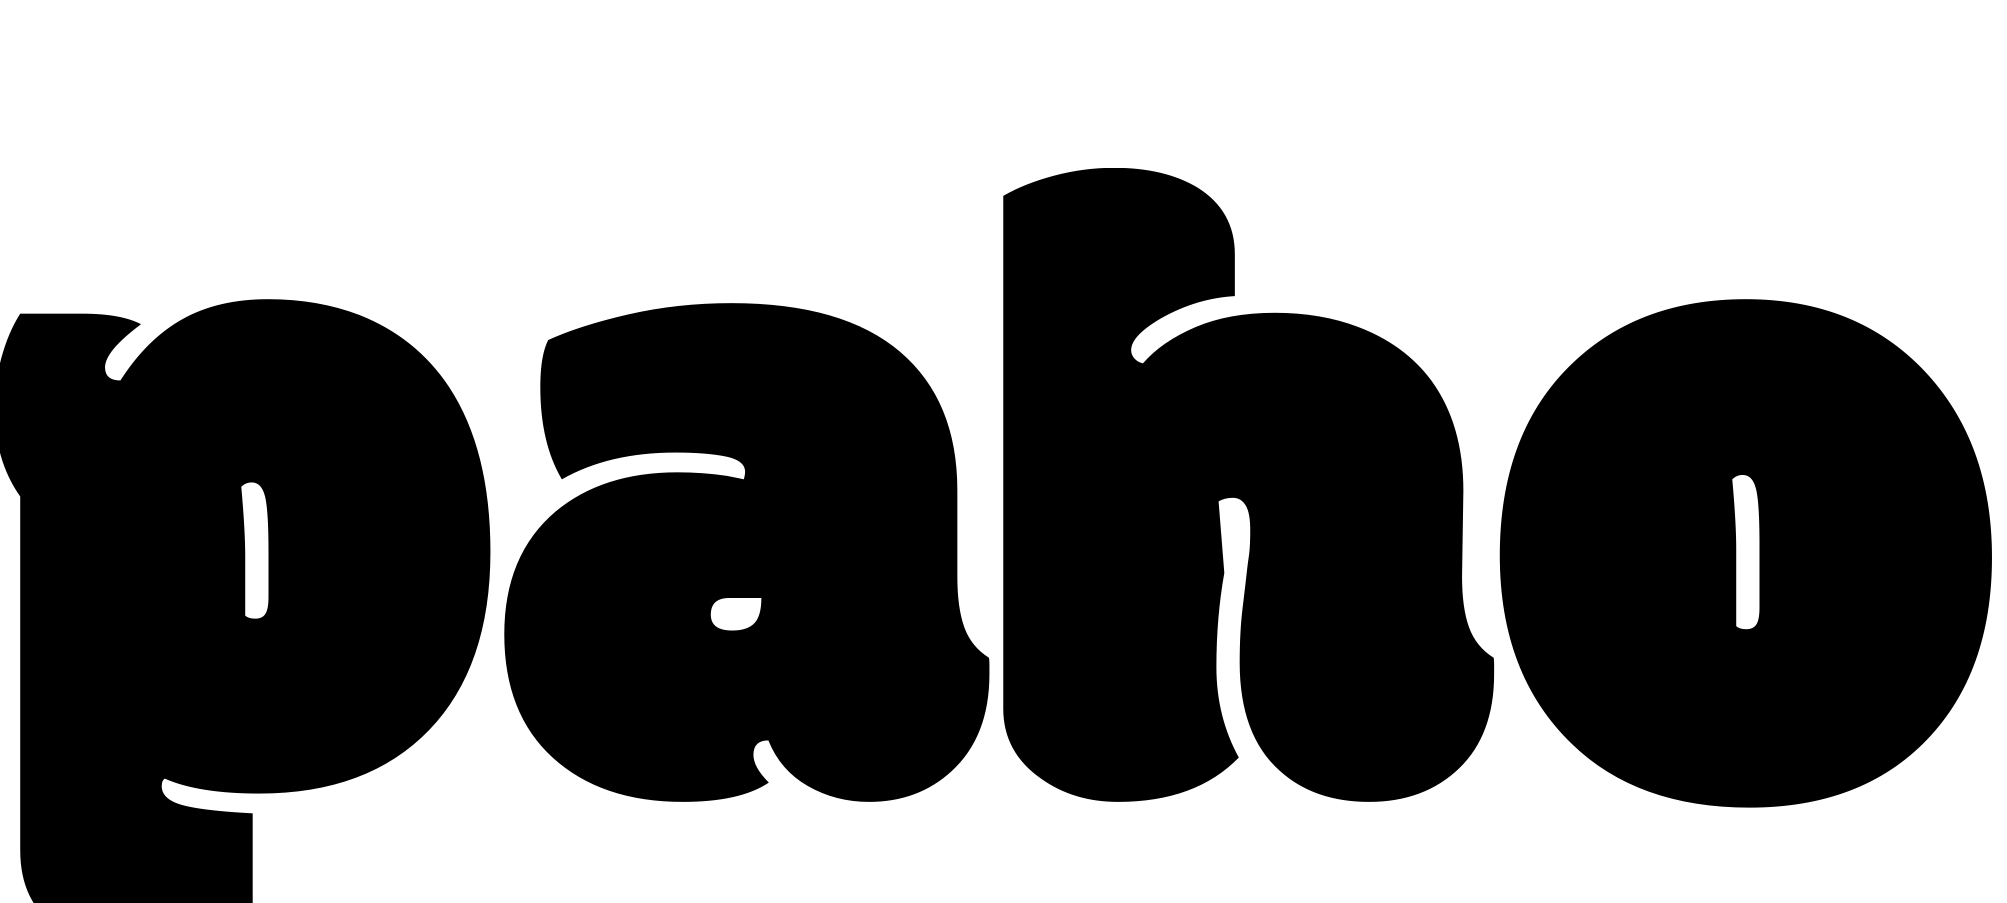
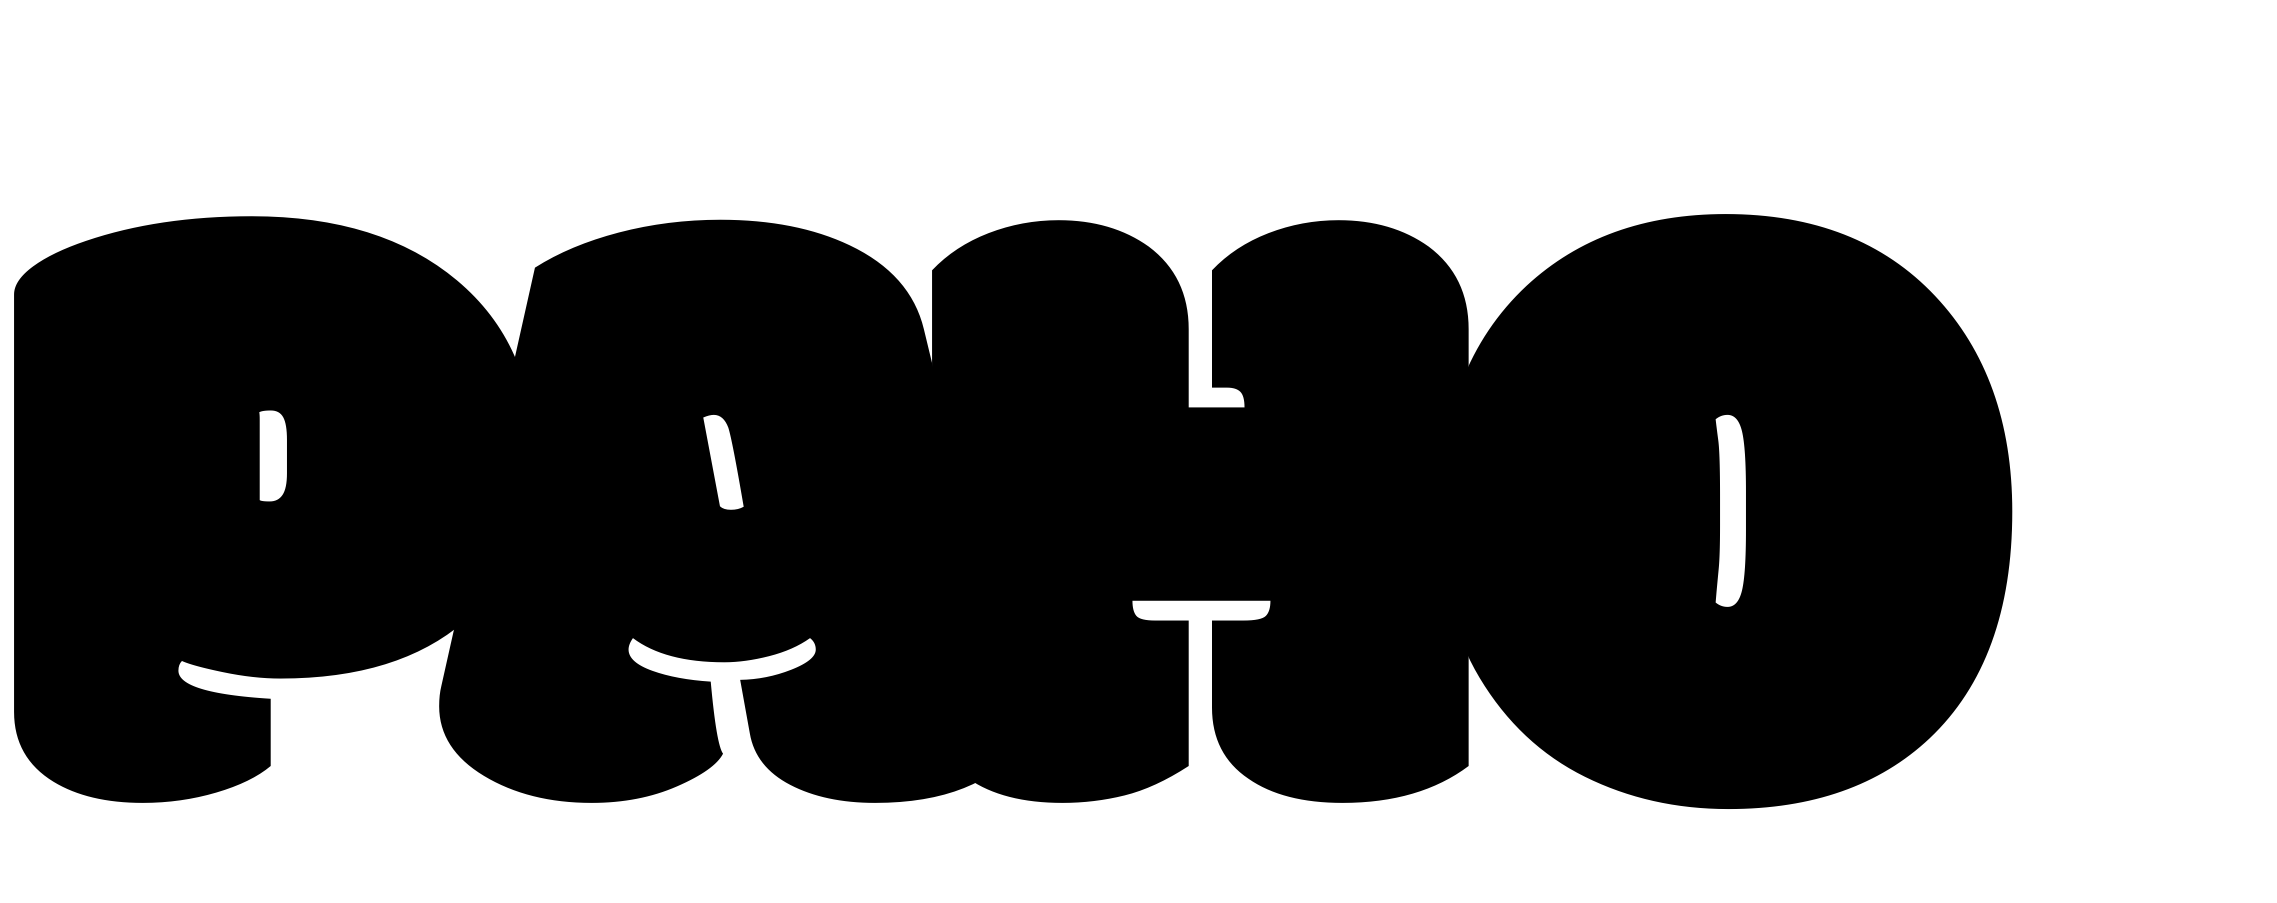
make the char connect with each others

Changed region(s): [[0.0, 0.186, 1.0, 1.0], [0.0927, 0.4341, 0.1545, 0.6822], [0.0, 0.5581, 0.0309, 0.8062]]

diff --git a/nlp/ResultGenerator.py b/nlp/ResultGenerator.py
@@ -38,12 +38,29 @@ class ResultGenerator:
         image = Image.new('RGB', size, (255, 255, 255))
         draw = ImageDraw.Draw(image)
 
-        draw.multiline_text(
-            xy=(0, -100),
-            text=projectName,
-            font=font,
-            spacing=1,
-            align="left",
-            fill=(0, 0, 0))
+        spaceBetweenChar = -80
+
+        specialChars = ['a', 'v']
+
+        offset = -draw.textsize(
+            text=projectName[0],
+            font=font, spacing=1)[0] - spaceBetweenChar
+
+        for char in projectName:
+            offset = draw.textsize(
+                text=char,
+                font=font,
+                spacing=1)[0] + offset + spaceBetweenChar
+
+            if char.lower() in specialChars:
+                offset = offset + spaceBetweenChar
+
+            draw.multiline_text(
+                xy=(offset, -100),
+                text=char,
+                font=font,
+                spacing=1,
+                align="left",
+                fill=(0, 0, 0))
 
         image.save('./data/nlp/result/' + projectName + '-mask.png')

diff --git a/nlp/NlpProcessing.py b/nlp/NlpProcessing.py
@@ -155,6 +155,6 @@ def process(siteUrl):
 
     resultGenerator = ResultGenerator
     # generateImageFile(projectName, keywordsDistribution)
-    ResultGenerator.makeMask(projectName)
+    ResultGenerator.makeMask(projectName.upper())
     ResultGenerator.makeImage(keywordsDistribution, projectName)
     print('Wordcloud generated for ', projectName)
